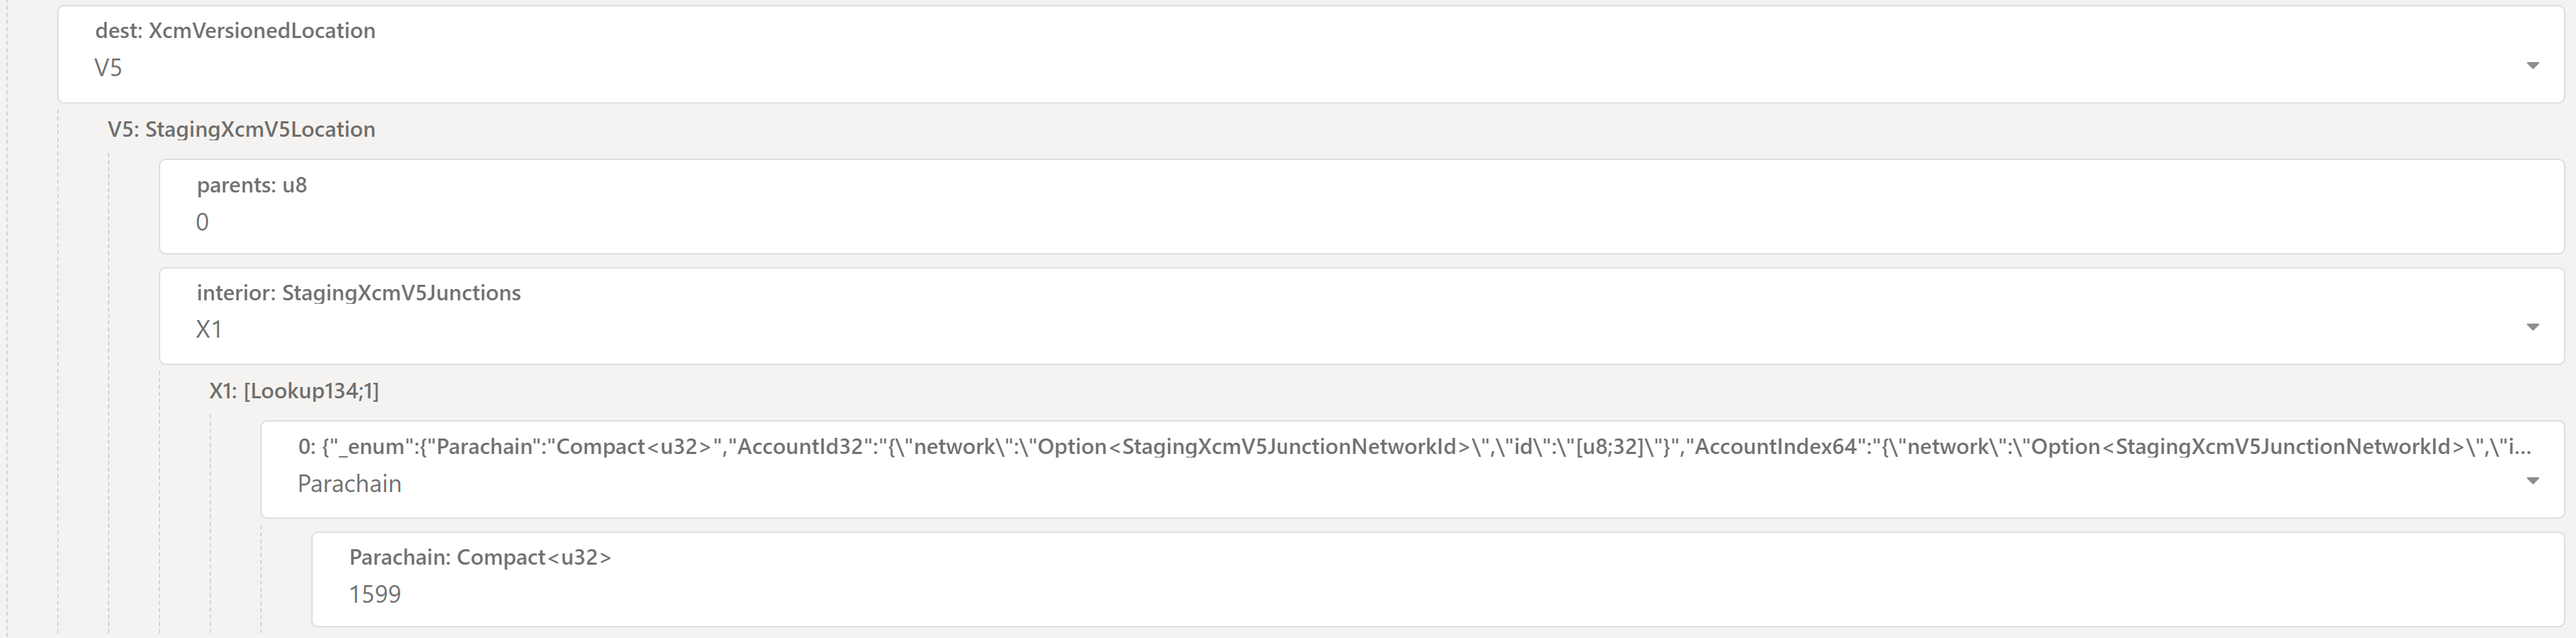
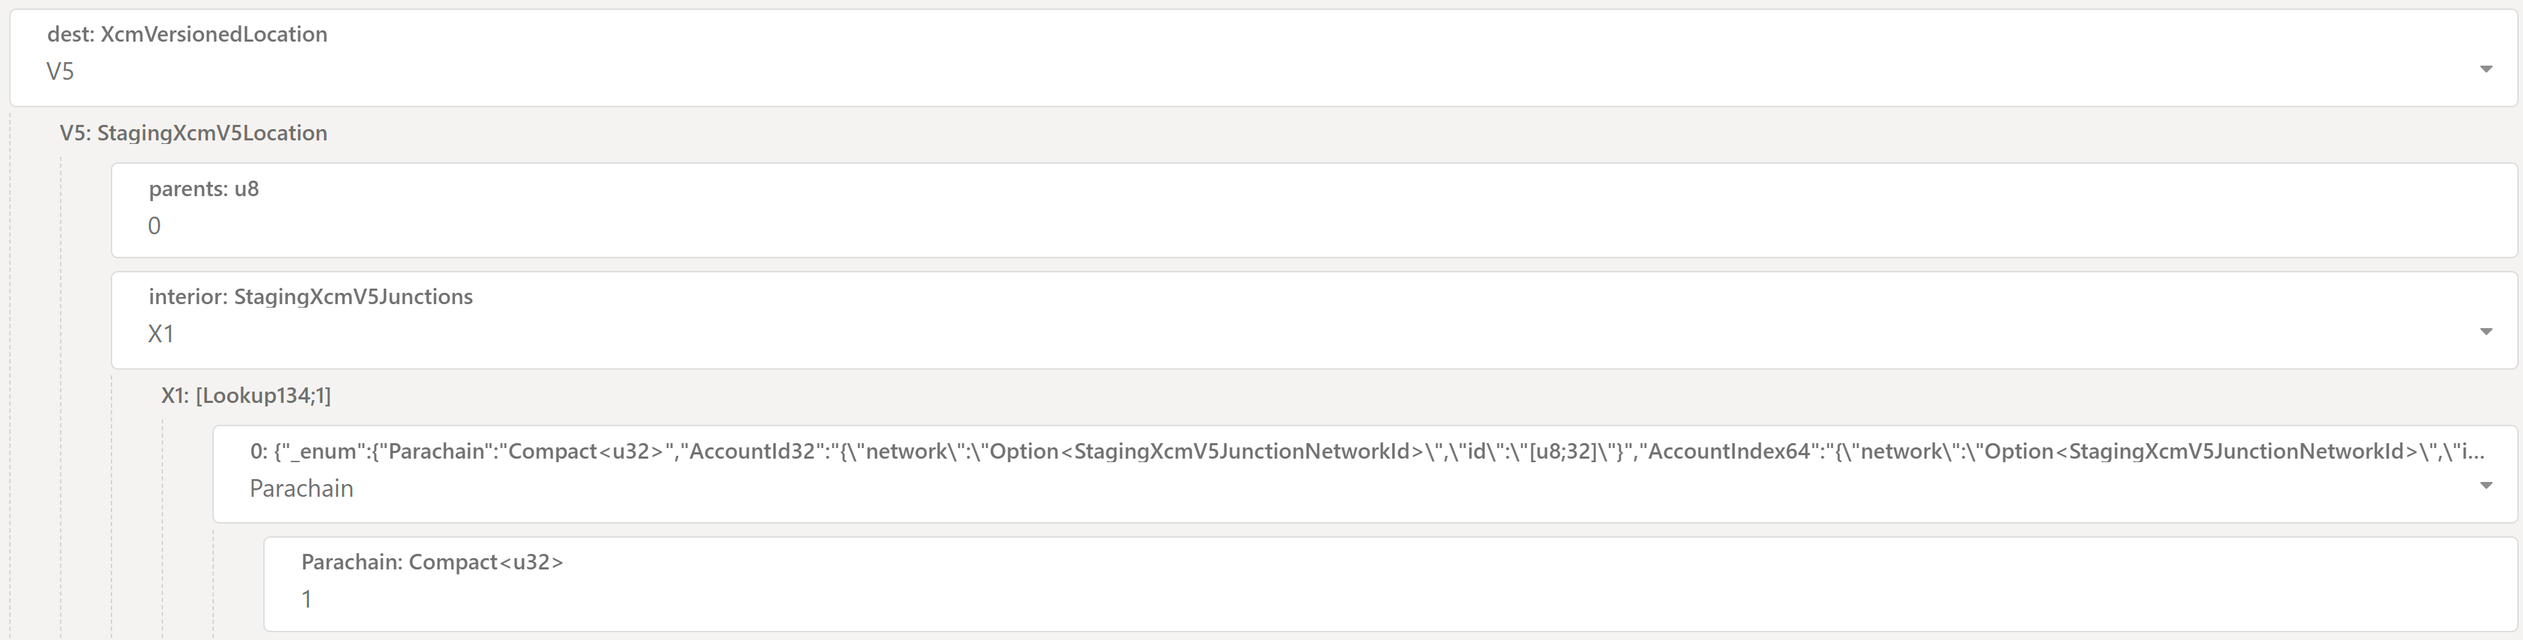
Address comment + set final VFlow ParaID

diff --git a/docs/overview/04-token-bridging/02-token-teleport.md b/docs/overview/04-token-bridging/02-token-teleport.md
@@ -34,11 +34,11 @@ This parameter specifies the target chain where the assets are being teleported.
     - `parents` as `0`
     - `interior` as `X1` from the scroll-down menu. Then new fields will appear. Let's set:
         - `Parachain` as `0` field, from the scroll-down menu
-        - We need finally to insert the ID of the `Parachain` we want to send the assets to, in the example is `1599`, but in case of VFlow it will be `1`.
+        - We need finally to insert the ID of the VFlow `Parachain`, which is `1`.
 
 Let's provide a brief explanation here:
 - `dest` provides details about the destination of the message (we need to select the XCM version currently being used. V5 is the most-up-to-date at the time of writing).
-    - `parents` tells the Relay Chain XCM executor the destination location of the teleport. 
+    - `parents` tells the Relay Chain XCM executor that the following `interior` is relative to the Relay chain itself. 
 
     - `interior` describes the rest of the path, the specific, step-by-step directions to the final destination. It defines a sequence of "hops" or _Junctions_. Each junction is a specific location or entity within a consensus system.
         - The interior is structured as a container, usually X1, X2, X3, etc. where X stands for the number of Junctions (hops) in the path.
@@ -59,7 +59,7 @@ So setting `parents = 0` means it's the current location (in bash it would be `.
 Setting `interior = X1 { Parachain: 3 }` means essentially specifying `./parachain_3`;
 Instead setting `interior = X2 { Parachain: 3, AccountKey20: 0x111 }` means essentially specifying `./parachain_3/account_111`
 
-Putting it all together, we are initiating the teleport from the Relay Chain (so `parents` is 0, since we are already on the Relay Chain) to the Parachain with id `1599`, which is *one hop* away from the parent (so `interior` is `X1` with `Parachain` set to `1599`).
+Putting it all together, we are initiating the teleport from the Relay Chain (so `parents` is 0, since we are already on the Relay Chain) to the Parachain with id `1`, which is *one hop* away from the parent (so `interior` is `X1` with `Parachain` set to `1`).
 
 #### Beneficiary
 
@@ -74,7 +74,7 @@ This specifies the account that will receive the assets on the destination chain
         - We need finally to insert the address of the Ethereum account we want to receive the assets on VFlow. 
 
 Note the usage of:
-- `parents = 0`: the instruction for minting the funds and depositing them into the beneficiary's account **is executed by VFlow**. From VFlow perspective, the beneficiary account is right there on-chain. It doesn't need to go up to the Relay Chain to find it (we are already in the `parachain_1599` directory)
+- `parents = 0`: the instruction for minting the funds and depositing them into the beneficiary's account **is executed by VFlow**. From VFlow perspective, the beneficiary account is right there on-chain. It doesn't need to go up to the Relay Chain to find it (we are already in the `parachain_1` directory)
 - `interior = X1`: We need to do "one hop" from the Parachain to the beneficiary account on the Parachain itself (like accessing `./beneficiary_account`)
 
 #### Assets
@@ -101,7 +101,7 @@ Finally, let's click on `submitTransaction` and then `sign And Submit` on the ne
 
 If you don't want to construct this complex extrinsic by yourself, you can go to `Developer -> Extrinsics -> Decode` and copy/paste the following hex:
 
[2 lines of base64/hex data omitted]
 
 Then click on the `Submission` tab and change the values you need (like the Parachain ID, amount, destination address, etc.). 
 
